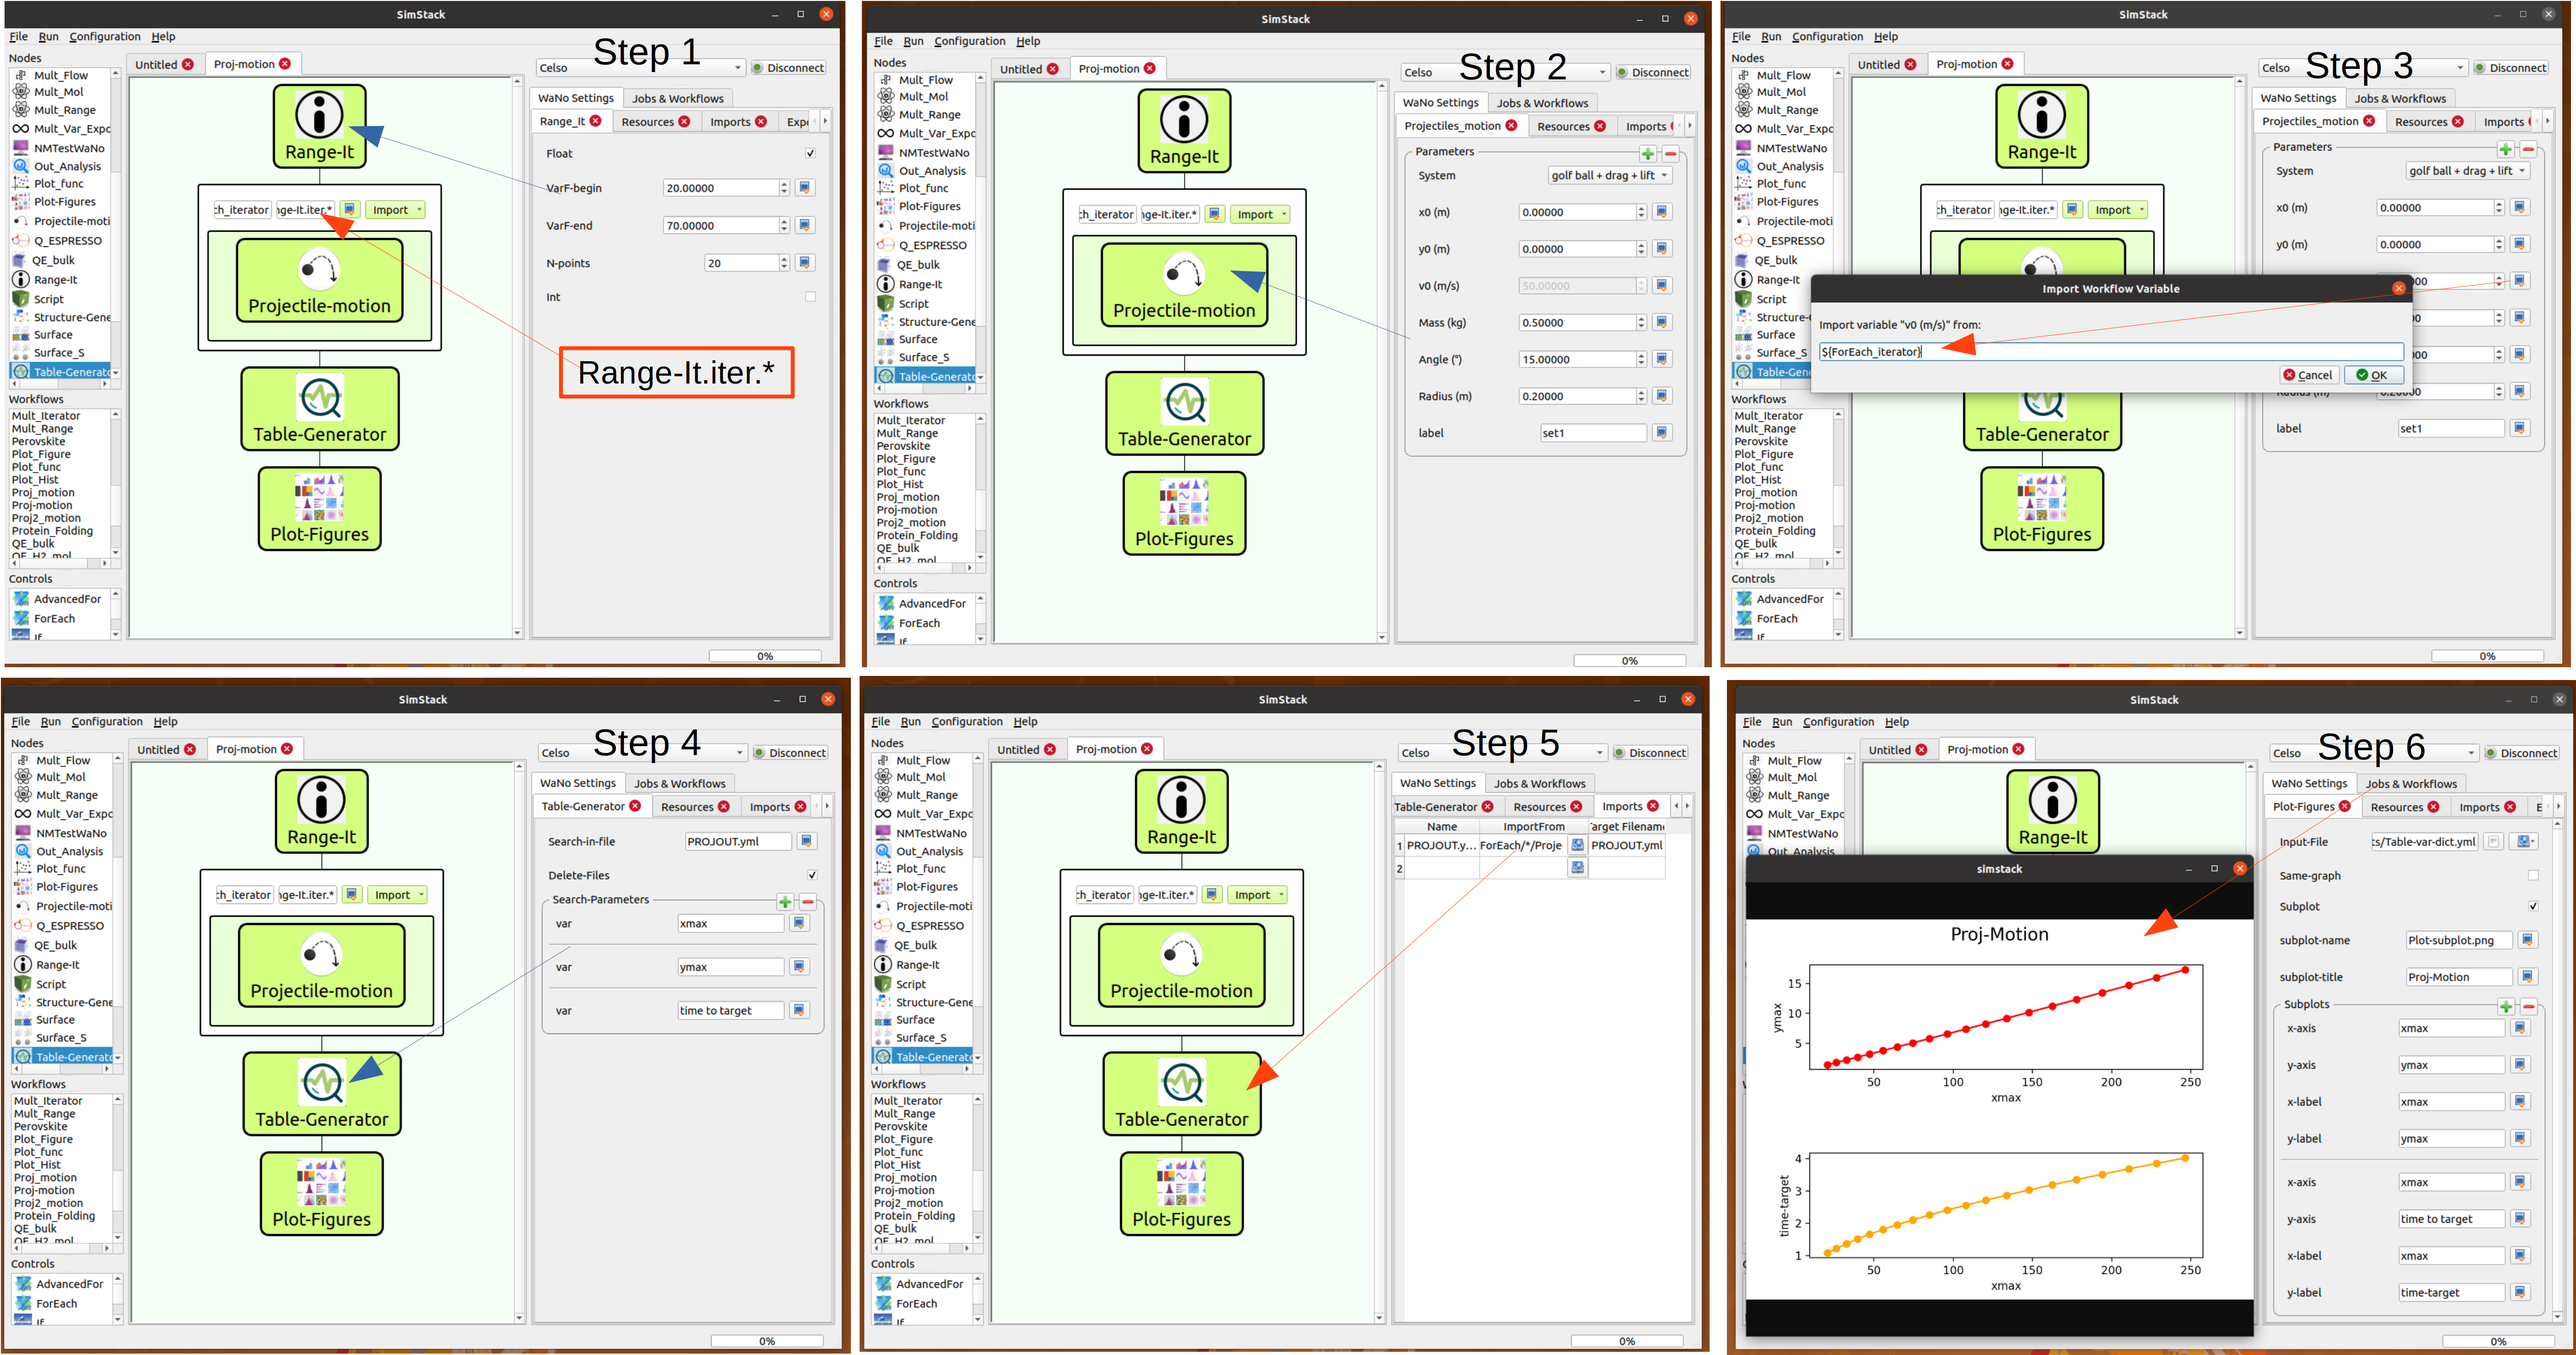
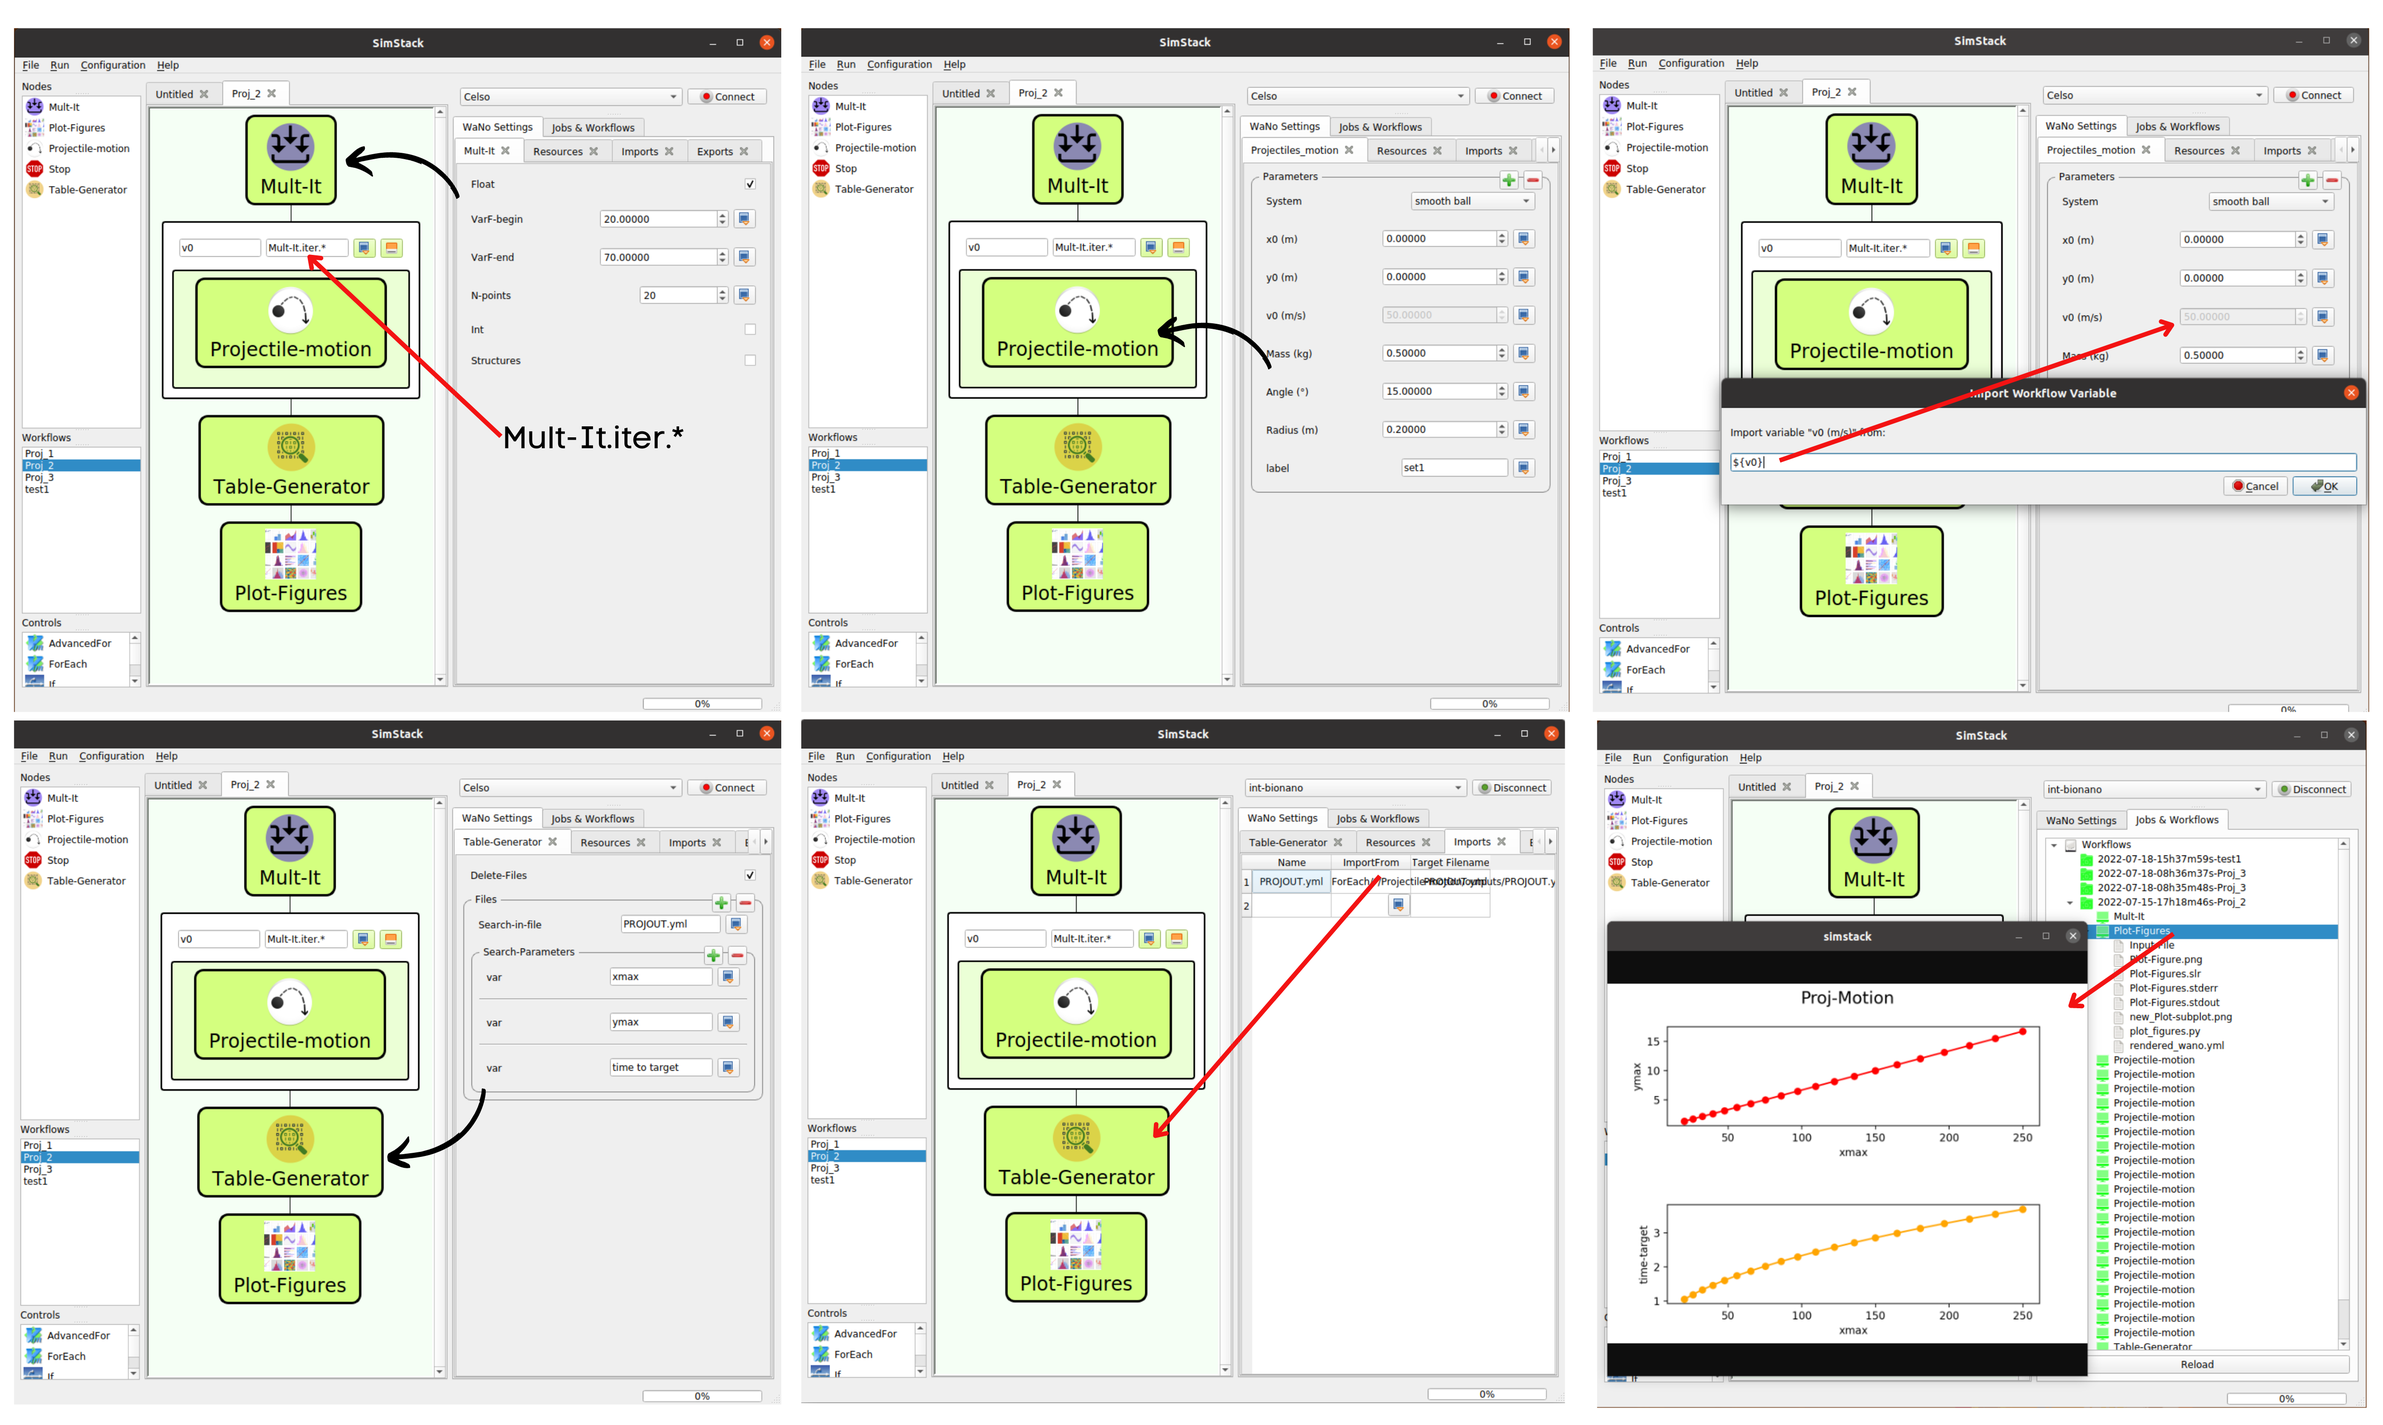
tut

diff --git a/docs/tutorials/projectile_motion/index.rst b/docs/tutorials/projectile_motion/index.rst
@@ -192,7 +192,7 @@ and we want to investigate the dependence of maximum height :math:`ymax` and *ti
    :width: 800
 
 
-**Fig 5** *shows the workflow, a workflow composed of four* **WaNos** *and the* **ForEach** *loop control. The blue arrows refer to
+**Fig 5** *shows the workflow, a workflow composed of four* **WaNos** *and the* **ForEach** *loop control. The black arrows refer to
 the input parameters of each* **WaNo**. *The red arrow in* **Step 1** *shows how to fill the field responsible for passing the list of
 values from* ``Mult-It`` **WaNo** *to the* **ForEach**. *The red arrow in* **Step 3** *points out the assignment of the ForEach-Iterator
 to the initial velocity (*:math:`v_0`*) variable. The red arrow in* **Step 5** *shows the path to import all the files* ``PROJOUT.yml``
@@ -201,7 +201,7 @@ to the initial velocity (*:math:`v_0`*) variable. The red arrow in* **Step 5** *
 6. Running this Workflow
 ###########################
 
-- Drag and drop the *Mult-It* **WaNo** from the top left menu to the SimStack canvas as pointed by the blue arrow on panel **Step 1** in **Fig 5**.
+- Drag and drop the *Mult-It* **WaNo** from the top left menu to the SimStack canvas as pointed by the black arrow on panel **Step 1** in **Fig 5**.
   There are 20 different values for initial velocity in this scenario, varying from 20 to 70 (m/s).
 
 - Drag and drop the *ForEach* loop control from below right and insert the *Projectila-motion* **WaNo** inside it. In the sequence, assign
